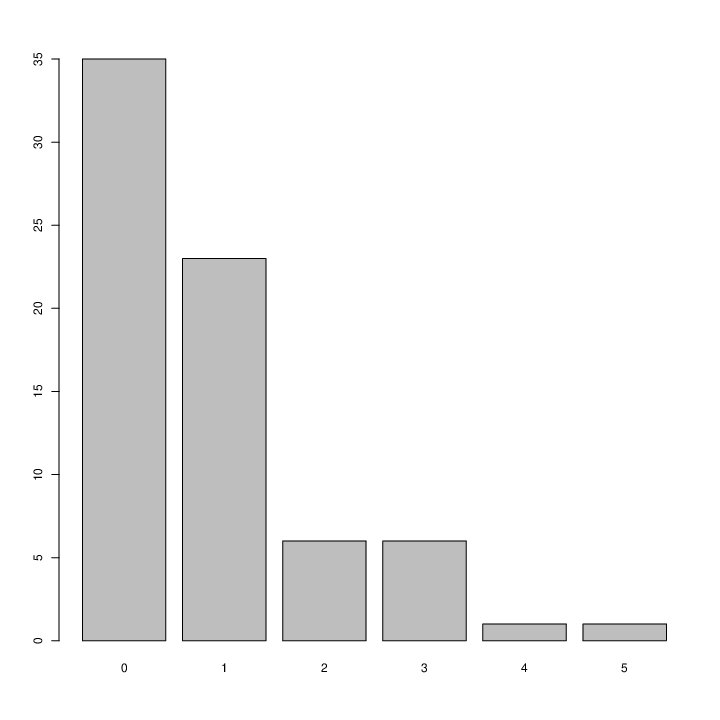
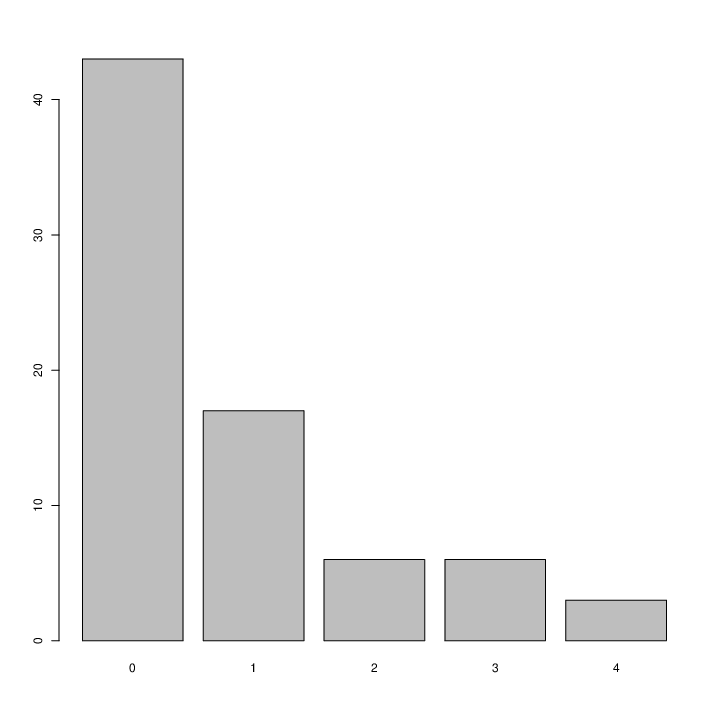
complete week 38 exercises

diff --git a/exercises/uge38/ex3.md b/exercises/uge38/ex3.md
@@ -62,3 +62,8 @@ hændelse.
 
 Hvis fordelingen for Kobes' streak ligner den simulerede, da er Kobes' streak
 en uafhængig hændelse.
+
+Hvis vi kigger på de to fordelinger, da ses det at de ligner hinanden. De er
+begge højreskæve og har begge én top (mode).
+Hvis Kobe havde en varm hånd, da ville formentlig ikke se et så stort drop off
+mellem 1 og 2 mål i stræk.
